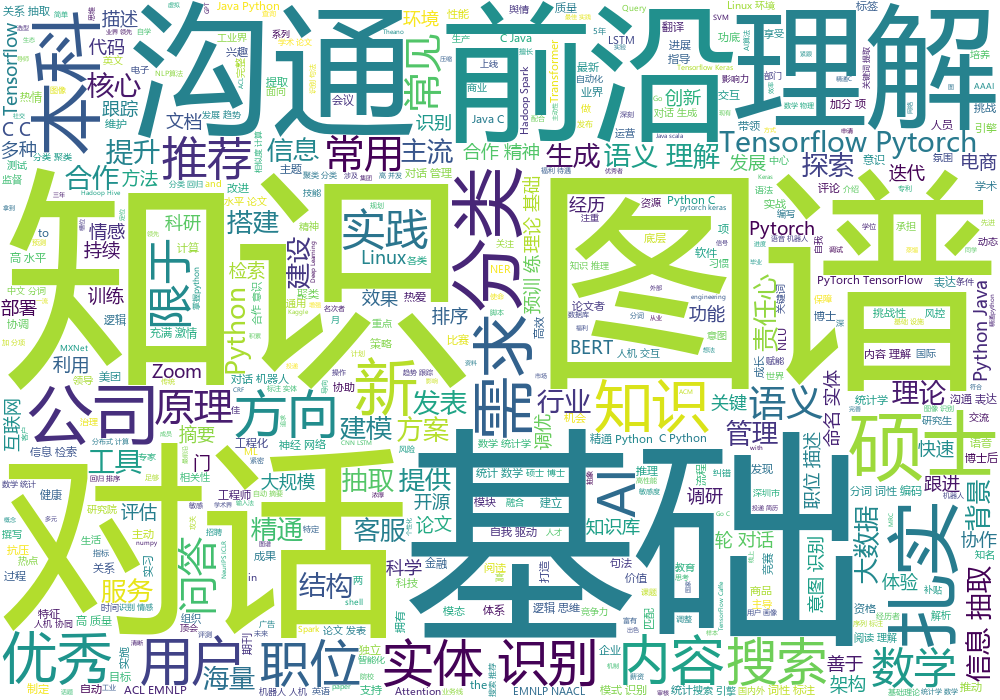
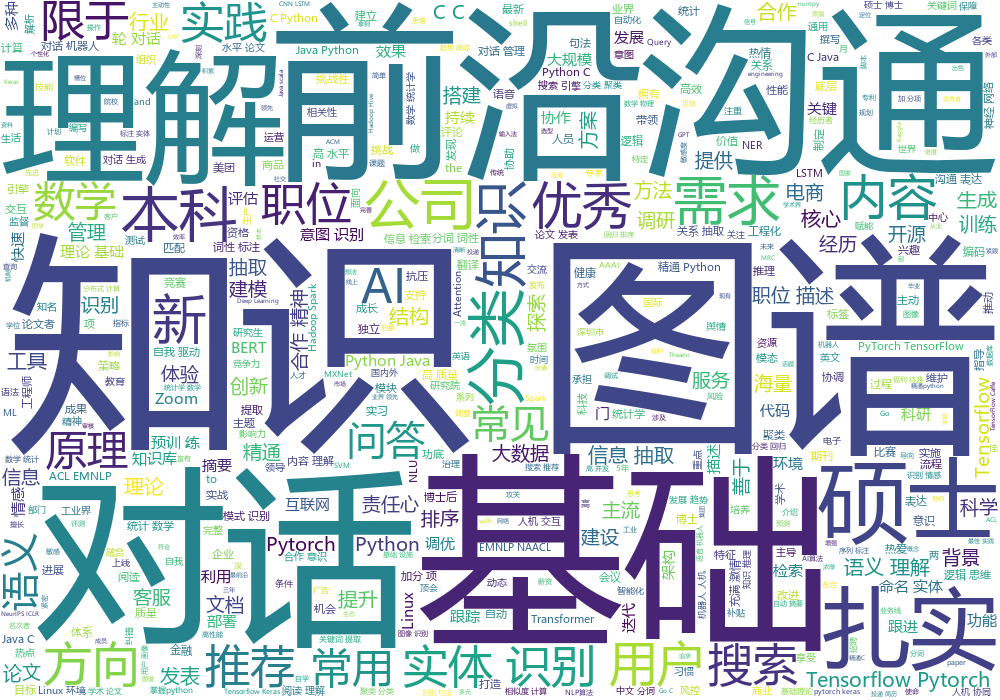
NLP

diff --git a/data analyze/main.py b/data analyze/main.py
@@ -12,12 +12,10 @@ seg = pkuseg.pkuseg()
 ls = seg.cut(s) # 生成分词列表
 text = ' '.join(ls) # 连接成字符串
 counter = Counter(ls)
-
 stopwords = open('stop words.txt',encoding='utf-8').readlines() # 去掉不需要显示的词
 stopwords = {e.strip() for e in stopwords}
 
 results = []
-
 for k, v in counter.items():
     if k in stopwords:
         continue
@@ -27,6 +25,10 @@ results = sorted(results,key=lambda x:x[1],reverse=True)
 with open("keyword.txt",'w', encoding='utf-8') as F:
     for k,v in results:
         F.write('{}\t{}\n'.format(k,v))
+
+
+
+
 wc = wordcloud.WordCloud(font_path="msyh.ttc",
                          width = 1000,
                          height = 700,

diff --git a/readme.md b/readme.md
@@ -1,0 +1,14 @@
+<h2>main.py: 爬取代码</h2>
+
+<h3>主要需要修改的地方：</h3>
+```python
+# 修改为你的电脑的edge浏览器的启动的地方，主要是改那串数据
+options.binary_location = r'C:\Program Files (x86)\Microsoft\EdgeCore\106.0.1370.42\msedge.exe'
+# executetable_path修改为你下载的edge驱动器的路径，百度搜索edge driver即可下载，要注意于浏览器版本号对应
+driver = Edge(options=options,executable_path=r'X:\Code\Scrapy\Crawl\edge_driver\msedgedriver.exe')
+# 修改你想要爬的职位的，把最后的kd=NLP改为kd=xx即可
+driver.get('https://www.lagou.com/wn/jobs?labelWords=&fromSearch=true&suginput=&kd=NLP')
+```
+修改完成后，直接运行，结果在当前目录下的*database.txt*里面
+
+<h2>data ananlyze: 里面有我爬好的数据以及词云图</h2>
